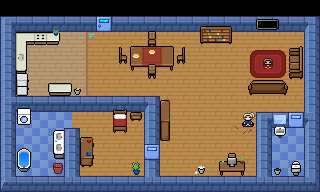
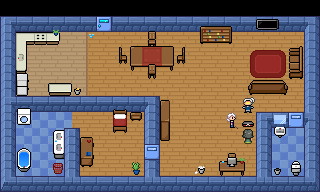
0.8.14.1 rr003-xy - addition of the camille's awakening

diff --git a/ReversedRebecca/src/com/sunsigne/reversedrebecca/Infos.java b/ReversedRebecca/src/com/sunsigne/reversedrebecca/Infos.java
@@ -17,7 +17,7 @@ public class Infos {
 	////////// GAME ////////////
 
 	public static final String NAME = "Reversed Rebecca";
-	public static final String VERSION = "v.0.8.14.0";
+	public static final String VERSION = "v.0.8.14.1";
 	// public static final boolean IS_DEV_VERSION =
 	// System.getProperty("java.class.path").contains("\\git\\");
 	public static boolean IS_DEV_VERSION = true;
